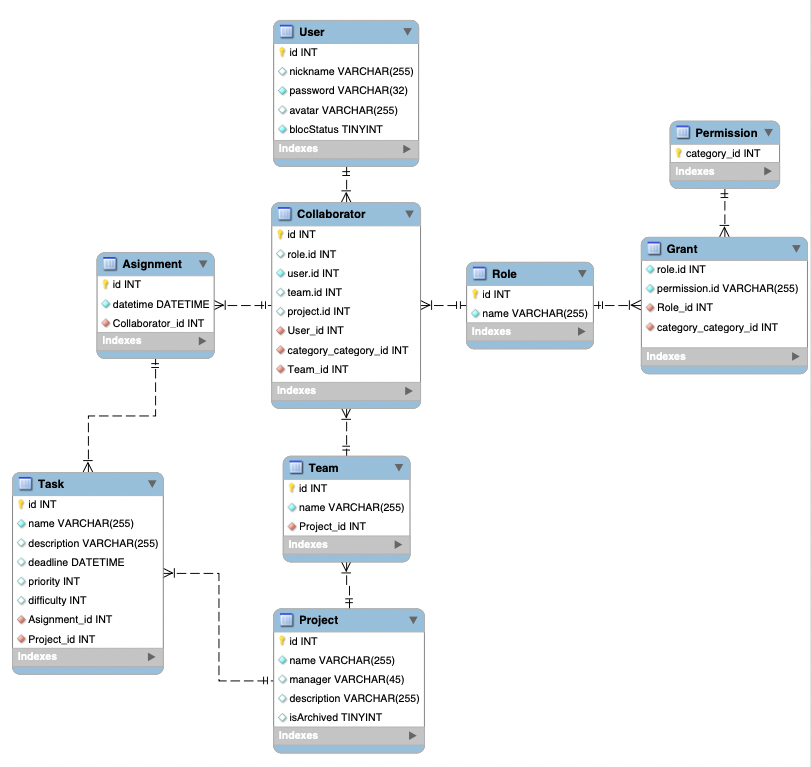
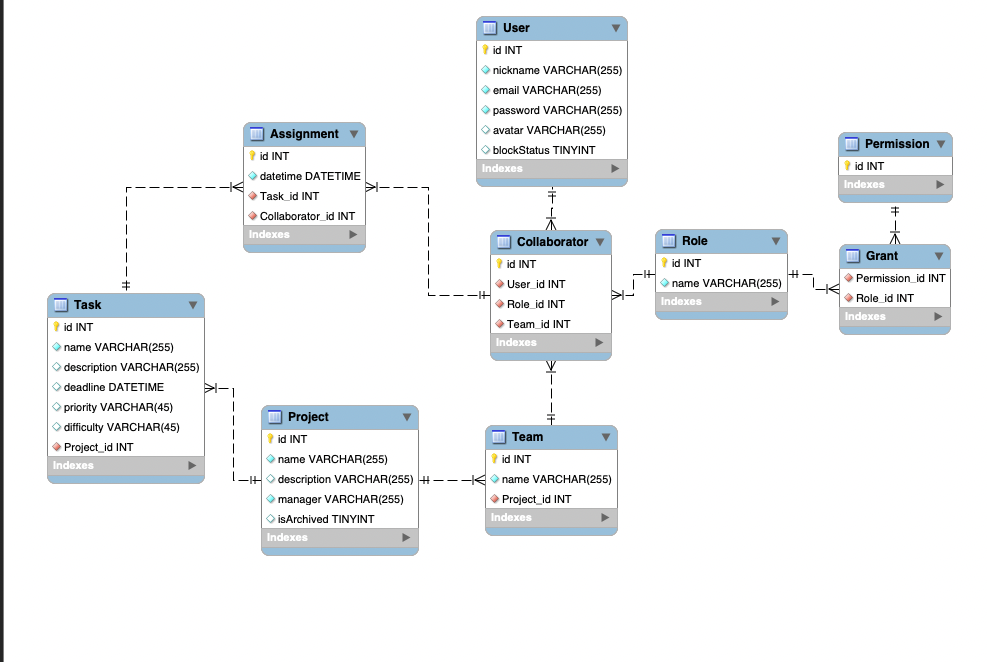
Added SQL Script

Changed region(s): [[0.0, 0.0, 1.0, 1.0], [0.2466, 0.574, 0.6473, 0.997]]

diff --git a/docs/software/README.md b/docs/software/README.md
@@ -1,6 +1,320 @@
 # Реалізація інформаційного та програмного забезпечення
 
-В рамках проекту розробляється: 
-- SQL-скрипт для створення на початкового наповнення бази даних
-- RESTfull сервіс для управління даними
+## SQL-скрипт для створення на початкового наповнення бази даних
 
+```mysql
+-- MySQL Script generated by MySQL Workbench
+-- Fri Nov 10 19:30:08 2023
+-- Model: New Model    Version: 1.0
+-- MySQL Workbench Forward Engineering
+
+SET @OLD_UNIQUE_CHECKS=@@UNIQUE_CHECKS, UNIQUE_CHECKS=0;
+SET @OLD_FOREIGN_KEY_CHECKS=@@FOREIGN_KEY_CHECKS, FOREIGN_KEY_CHECKS=0;
+SET @OLD_SQL_MODE=@@SQL_MODE, SQL_MODE='ONLY_FULL_GROUP_BY,STRICT_TRANS_TABLES,NO_ZERO_IN_DATE,NO_ZERO_DATE,ERROR_FOR_DIVISION_BY_ZERO,NO_ENGINE_SUBSTITUTION';
+
+-- -----------------------------------------------------
+-- Schema mydb
+-- -----------------------------------------------------
+DROP SCHEMA IF EXISTS `mydb` ;
+
+-- -----------------------------------------------------
+-- Schema mydb
+-- -----------------------------------------------------
+CREATE SCHEMA IF NOT EXISTS `mydb` DEFAULT CHARACTER SET utf8 ;
+USE `mydb` ;
+
+-- -----------------------------------------------------
+-- Table `mydb`.`User`
+-- -----------------------------------------------------
+DROP TABLE IF EXISTS `mydb`.`User` ;
+
+CREATE TABLE IF NOT EXISTS `mydb`.`User` (
+  `id` INT NOT NULL AUTO_INCREMENT,
+  `nickname` VARCHAR(255) NOT NULL,
+  `email` VARCHAR(255) NOT NULL,
+  `password` VARCHAR(255) NOT NULL DEFAULT CURRENT_TIMESTAMP,
+  `avatar` VARCHAR(255) NULL,
+  `blockStatus` TINYINT NULL,
+  PRIMARY KEY (`id`));
+
+
+-- -----------------------------------------------------
+-- Table `mydb`.`Role`
+-- -----------------------------------------------------
+DROP TABLE IF EXISTS `mydb`.`Role` ;
+
+CREATE TABLE IF NOT EXISTS `mydb`.`Role` (
+  `id` INT NOT NULL AUTO_INCREMENT,
+  `name` VARCHAR(255) NOT NULL,
+  PRIMARY KEY (`id`));
+
+
+-- -----------------------------------------------------
+-- Table `mydb`.`Project`
+-- -----------------------------------------------------
+DROP TABLE IF EXISTS `mydb`.`Project` ;
+
+CREATE TABLE IF NOT EXISTS `mydb`.`Project` (
+  `id` INT NOT NULL AUTO_INCREMENT,
+  `name` VARCHAR(255) NOT NULL,
+  `description` VARCHAR(255) NULL,
+  `manager` VARCHAR(255) NOT NULL,
+  `isArchived` TINYINT NULL,
+  PRIMARY KEY (`id`));
+
+
+-- -----------------------------------------------------
+-- Table `mydb`.`Team`
+-- -----------------------------------------------------
+DROP TABLE IF EXISTS `mydb`.`Team` ;
+
+CREATE TABLE IF NOT EXISTS `mydb`.`Team` (
+  `id` INT NOT NULL AUTO_INCREMENT,
+  `name` VARCHAR(255) NOT NULL,
+  `Project_id` INT NOT NULL,
+  PRIMARY KEY (`id`),
+  CONSTRAINT `fk_Team_Project1`
+    FOREIGN KEY (`Project_id`)
+    REFERENCES `mydb`.`Project` (`id`)
+    ON DELETE NO ACTION
+    ON UPDATE NO ACTION);
+
+CREATE INDEX `fk_Team_Project1_idx` ON `mydb`.`Team` (`Project_id` ASC) VISIBLE;
+
+
+-- -----------------------------------------------------
+-- Table `mydb`.`Collaborator`
+-- -----------------------------------------------------
+DROP TABLE IF EXISTS `mydb`.`Collaborator` ;
+
+CREATE TABLE IF NOT EXISTS `mydb`.`Collaborator` (
+  `id` INT NOT NULL AUTO_INCREMENT,
+  `User_id` INT NOT NULL,
+  `Role_id` INT NOT NULL,
+  `Team_id` INT NOT NULL,
+  PRIMARY KEY (`id`),
+  CONSTRAINT `fk_Collaborator_User`
+    FOREIGN KEY (`User_id`)
+    REFERENCES `mydb`.`User` (`id`)
+    ON DELETE NO ACTION
+    ON UPDATE NO ACTION,
+  CONSTRAINT `fk_Collaborator_Role1`
+    FOREIGN KEY (`Role_id`)
+    REFERENCES `mydb`.`Role` (`id`)
+    ON DELETE NO ACTION
+    ON UPDATE NO ACTION,
+  CONSTRAINT `fk_Collaborator_Team1`
+    FOREIGN KEY (`Team_id`)
+    REFERENCES `mydb`.`Team` (`id`)
+    ON DELETE NO ACTION
+    ON UPDATE NO ACTION);
+
+CREATE INDEX `fk_Collaborator_User_idx` ON `mydb`.`Collaborator` (`User_id` ASC) VISIBLE;
+
+CREATE INDEX `fk_Collaborator_Role1_idx` ON `mydb`.`Collaborator` (`Role_id` ASC) VISIBLE;
+
+CREATE INDEX `fk_Collaborator_Team1_idx` ON `mydb`.`Collaborator` (`Team_id` ASC) VISIBLE;
+
+
+-- -----------------------------------------------------
+-- Table `mydb`.`Permission`
+-- -----------------------------------------------------
+DROP TABLE IF EXISTS `mydb`.`Permission` ;
+
+CREATE TABLE IF NOT EXISTS `mydb`.`Permission` (
+  `id` INT NOT NULL AUTO_INCREMENT,
+  PRIMARY KEY (`id`));
+
+
+-- -----------------------------------------------------
+-- Table `mydb`.`Grant`
+-- -----------------------------------------------------
+DROP TABLE IF EXISTS `mydb`.`Grant` ;
+
+CREATE TABLE IF NOT EXISTS `mydb`.`Grant` (
+  `Permission_id` INT NOT NULL,
+  `Role_id` INT NOT NULL,
+  CONSTRAINT `fk_Grant_Permission1`
+    FOREIGN KEY (`Permission_id`)
+    REFERENCES `mydb`.`Permission` (`id`)
+    ON DELETE NO ACTION
+    ON UPDATE NO ACTION,
+  CONSTRAINT `fk_Grant_Role1`
+    FOREIGN KEY (`Role_id`)
+    REFERENCES `mydb`.`Role` (`id`)
+    ON DELETE NO ACTION
+    ON UPDATE NO ACTION);
+
+CREATE INDEX `fk_Grant_Permission1_idx` ON `mydb`.`Grant` (`Permission_id` ASC) VISIBLE;
+
+CREATE INDEX `fk_Grant_Role1_idx` ON `mydb`.`Grant` (`Role_id` ASC) VISIBLE;
+
+
+-- -----------------------------------------------------
+-- Table `mydb`.`Task`
+-- -----------------------------------------------------
+DROP TABLE IF EXISTS `mydb`.`Task` ;
+
+CREATE TABLE IF NOT EXISTS `mydb`.`Task` (
+  `id` INT NOT NULL AUTO_INCREMENT,
+  `name` VARCHAR(255) NOT NULL,
+  `description` VARCHAR(255) NULL,
+  `deadline` DATETIME NULL,
+  `priority` VARCHAR(45) NULL,
+  `difficulty` VARCHAR(45) NULL,
+  `Project_id` INT NOT NULL,
+  PRIMARY KEY (`id`),
+  CONSTRAINT `fk_Task_Project1`
+    FOREIGN KEY (`Project_id`)
+    REFERENCES `mydb`.`Project` (`id`)
+    ON DELETE NO ACTION
+    ON UPDATE NO ACTION);
+
+CREATE INDEX `fk_Task_Project1_idx` ON `mydb`.`Task` (`Project_id` ASC) VISIBLE;
+
+
+-- -----------------------------------------------------
+-- Table `mydb`.`Assignment`
+-- -----------------------------------------------------
+DROP TABLE IF EXISTS `mydb`.`Assignment` ;
+
+CREATE TABLE IF NOT EXISTS `mydb`.`Assignment` (
+  `id` INT NOT NULL AUTO_INCREMENT,
+  `datetime` DATETIME NOT NULL,
+  `Task_id` INT NOT NULL,
+  `Collaborator_id` INT NOT NULL,
+  PRIMARY KEY (`id`),
+  CONSTRAINT `fk_Assignment_Task1`
+    FOREIGN KEY (`Task_id`)
+    REFERENCES `mydb`.`Task` (`id`)
+    ON DELETE NO ACTION
+    ON UPDATE NO ACTION,
+  CONSTRAINT `fk_Assignment_Collaborator1`
+    FOREIGN KEY (`Collaborator_id`)
+    REFERENCES `mydb`.`Collaborator` (`id`)
+    ON DELETE NO ACTION
+    ON UPDATE NO ACTION);
+
+CREATE INDEX `fk_Assignment_Task1_idx` ON `mydb`.`Assignment` (`Task_id` ASC) VISIBLE;
+
+CREATE INDEX `fk_Assignment_Collaborator1_idx` ON `mydb`.`Assignment` (`Collaborator_id` ASC) VISIBLE;
+
+
+SET SQL_MODE=@OLD_SQL_MODE;
+SET FOREIGN_KEY_CHECKS=@OLD_FOREIGN_KEY_CHECKS;
+SET UNIQUE_CHECKS=@OLD_UNIQUE_CHECKS;
+
+
+-- Test Data
+
+-- Adding into `mydb`.`Role`
+INSERT INTO `mydb`.`Role` (`name`)
+VALUES
+    ('Administrator'),
+    ('Team-lead'),
+    ('Collaborator');
+
+-- Adding into `mydb`.`Permission`
+INSERT INTO `mydb`.`Permission` (`role`, `name`)
+VALUES        
+    ('Team-lead', 'EditProfile'),
+    ('Team-lead', 'CreateTask'),
+    ('Team-lead', 'EditTask'),
+    ('Team-lead', 'DeleteTask'),            
+    ('Team-lead', 'CreateProject'),
+    ('Team-lead', 'EditProject'),
+    ('Team-lead', 'DeleteProject'),    
+    ('Team-lead', 'ArchiveProject'),    
+    ('Team-laed', 'AddCollaborator'),
+    ('Team-lead', 'DeleteCollaborator'),
+        
+    ('Collaborator', 'EditProfile'),
+    ('Collaborator', 'CreateTask'),
+    ('Collaborator', 'EditTask'),
+    ('Collaborator', 'DeleteTask'),
+    
+    ('Administrator', 'AssignManager'),
+    ('Administrator', 'BanUser'),
+    ('Administrator', 'UnBanUser');
+    ('Administrator', 'Support');
+
+-- Adding into `mydb`.`Grant`
+INSERT INTO `db_coursework`.`Grant` (`Permission_id`, `Role_id`)
+VALUES
+    (1, 1),
+    (1, 2),
+    (1, 3),
+
+    (2, 1),
+    (2, 2),
+
+    (3, 1),
+    (3, 2),
+
+    (4, 1),
+    (4, 2),
+    
+    (5, 1),    
+
+    (6, 1),    
+
+    (7, 1),
+
+    (8, 1),
+
+    (9, 1),
+
+    (10, 1),
+
+    (11, 3),
+
+    (12, 3),
+
+    (13, 3),    
+
+    (14, 3),    
+
+
+-- Adding into `mydb`.`Project`
+INSERT INTO `mydb`.`Project` (`name`, `description`, `manager`, `isArchived`)
+VALUES
+    ('Project_0', 'Description_0', 'Team-lead_0', 'false'),
+    ('Project_1', 'Description_1', 'Team-lead_1', 'true'),
+
+-- Додавання даних в таблицю `mydb`.`Team`
+INSERT INTO `db_coursework`.`Team` (`name`, `Project_id`)
+VALUES
+    ('Team_0', 'Project_0'),
+    ('Team_1', 'Project_1'),
+
+-- Adding into `mydb`.`User`
+INSERT INTO `db_coursework`.`User` (`nickname`, `email`, `password`, `avatar`, `blockStatus`)
+VALUES
+    ('User_0', 'user_0@mail.com', 'password_0', './photo', false),
+    ('User_1', 'user_1@mail.com', 'password_1', './photo', true);
+
+-- Adding into `mydb`.`Collaborator`
+INSERT INTO `mydb`.`Collaborator` ( `User_id`, `Role_id`, `Team_id`)
+VALUES
+    ('0', '0', '0'),
+    ('1', '1', '1'),
+
+
+-- Adding into ` `mydb`.`Task`
+INSERT INTO `mydb`.`Task` (`name`, `description`, `deadline`, `priority`, `difficulty`, `Project_id`)
+VALUES
+    ('Task_0', 'Description_0', '01-01-2023 12:00:00', 'High', 'Low', 'Project_0'),    
+    ('Task_1``, 'Description_1', '01-01-2023 12:00:00', 'Low', 'High', 'Project_1'),    
+
+-- Adding into `mydb`.`Assignment`
+INSERT INTO `mydb`.`Assignment` (`datetime`, `Task_id`, `Collaborator_id`)
+VALUES
+    ('2023-01-01 12:00:00', 0, 0),
+    ('2023-01-01 12:00:00', 1, 1),    
+
+
+COMMIT;
+
+```
+
+## RESTfull сервіс для управління даними
